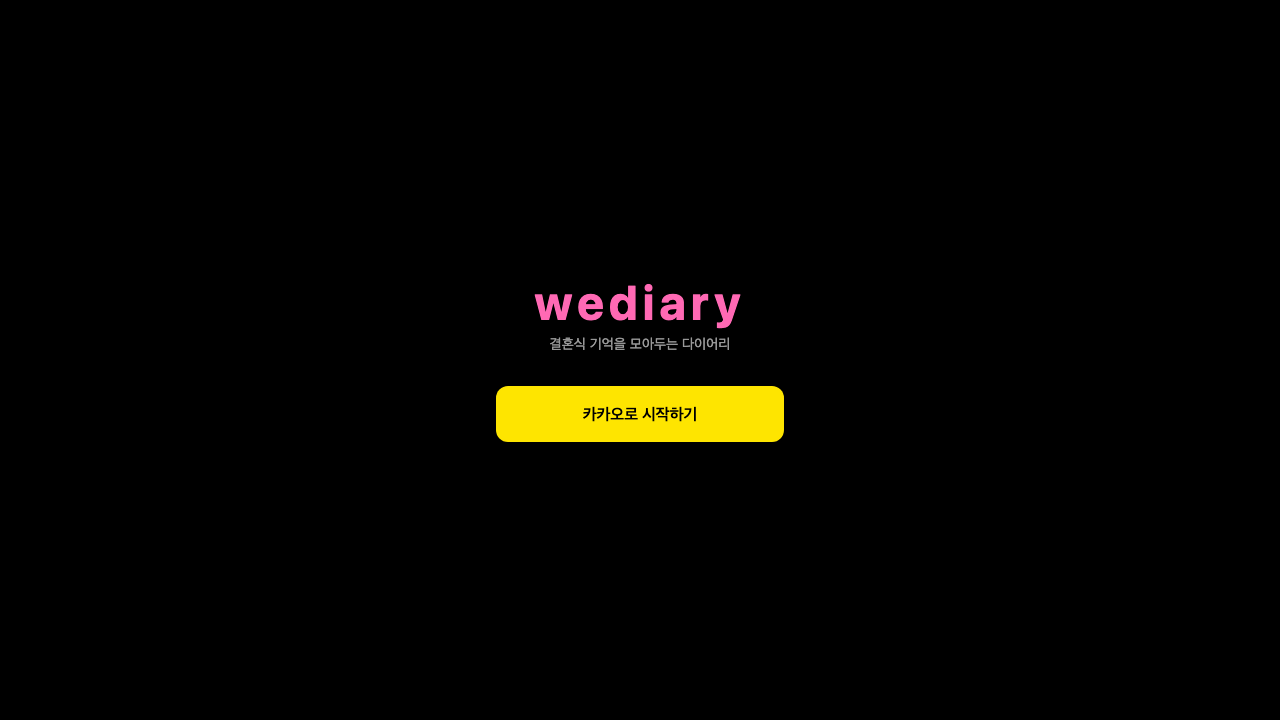
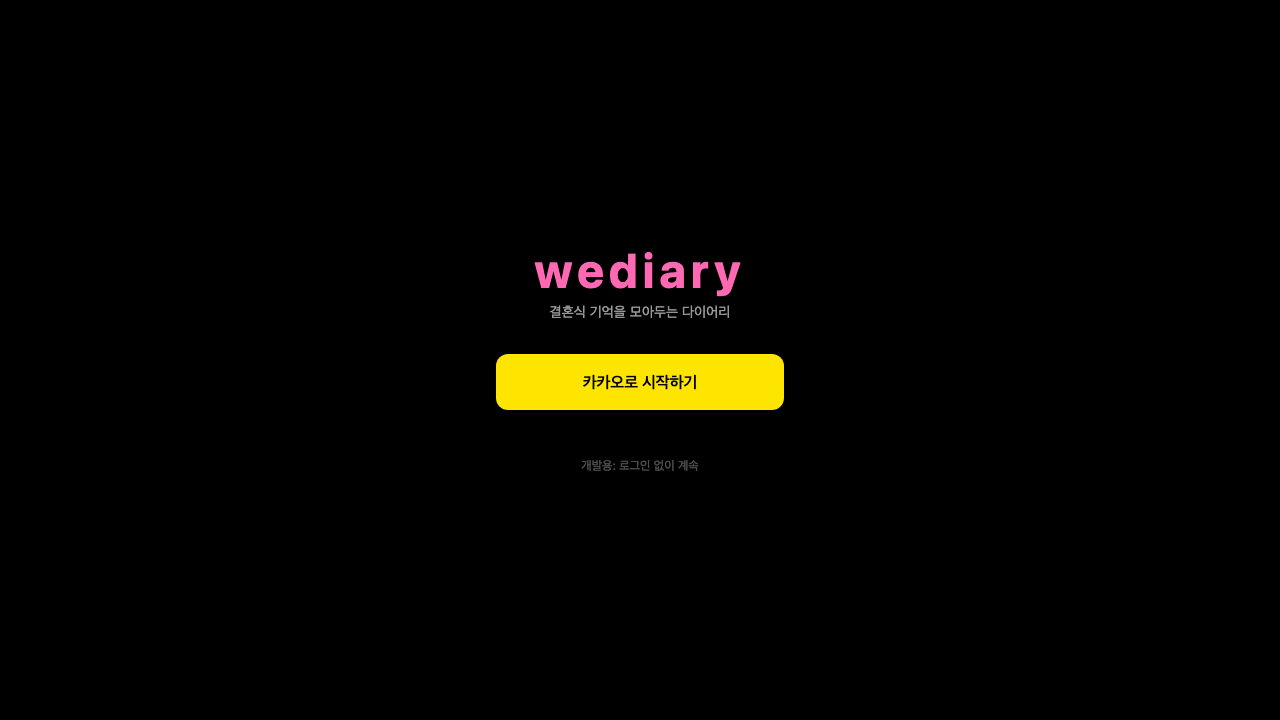
chore: QA 리포트 및 스크린샷 저장, TODOS.md 업데이트

Changed region(s): [[0.375, 0.3361, 0.625, 0.6722]]

diff --git a/.gstack/qa-reports/qa-report-localhost-2026-03-31.md b/.gstack/qa-reports/qa-report-localhost-2026-03-31.md
@@ -1,0 +1,90 @@
+# QA Report — wediary (localhost:8081)
+**Date:** 2026-03-31  
+**Branch:** main  
+**Tier:** Standard  
+**Mode:** Full  
+**Duration:** ~8 min  
+**Pages visited:** 4 (Home/예정 tab, Home/지난결혼식 tab, Settings, New Wedding form, Login)  
+**Screenshots:** 12  
+**Framework:** Expo 54 / React Native Web (SPA)
+
+---
+
+## Summary
+
+| Category | Score | Issues |
+|----------|-------|--------|
+| Console | 95 | 3 deprecation warnings (known, expo-router internals) |
+| Links | 100 | 0 broken links |
+| Visual | 97 | ISSUE-001: focus ring blue (web only, low) |
+| Functional | 95 | Save requires auth (expected in dev mode) |
+| UX | 95 | Smooth navigation, clear empty states |
+| Performance | 95 | Fast load, minimal assets |
+| Content | 100 | Korean copy correct throughout |
+| Accessibility | 85 | FAB "+" has no aria-label |
+
+**Health Score: 94/100**
+
+---
+
+## Issues
+
+### ISSUE-001 — Input Focus Ring (Low, Visual)
+**Severity:** Low  
+**Category:** Visual  
+**Fix Status:** Deferred (web-only, target platform is iOS)
+
+Text inputs show browser-default blue focus outline when active on web. Not consistent with brand pink.
+
+**Repro:**
+1. Navigate to http://localhost:8081/new
+2. Click any text input field (신랑, 신부, 장소)
+3. Observe: blue outline appears around the field
+
+**Evidence:** `.gstack/qa-reports/screenshots/new-wedding-filled.png` (장소 field showing blue border)
+
+**Why deferred:** This is a React Native Web behavior — the app is mobile-first and this won't appear on iOS. Low priority for MVP.
+
+---
+
+## Known / Non-Issues
+
+| Item | Status |
+|------|--------|
+| `props.pointerEvents` deprecation warning | Known — expo-router internals, not app code |
+| Save fails with "로그인이 필요합니다." | Expected — dev mode has no real Supabase session |
+
+---
+
+## Flows Tested
+
+| Flow | Result | Notes |
+|------|--------|-------|
+| Login screen renders | ✅ Pass | Dev bypass link visible |
+| Home — 예정 tab (empty state) | ✅ Pass | 💌 "예정된 결혼식이 없어요" |
+| Home — 지난 결혼식 tab (empty state) | ✅ Pass | 📖 "아직 기록이 없어요" |
+| Tab switching animation | ✅ Pass | Active tab highlights pink correctly |
+| Settings screen | ✅ Pass | Account card shows "—" (no session), Logout button pink |
+| Settings — back navigation | ✅ Pass | Returns to home correctly |
+| New Wedding — FAB "+" | ✅ Pass | Navigates to /new |
+| New Wedding — form fields | ✅ Pass | All 4 fields fill correctly |
+| New Wedding — date default | ✅ Pass | Pre-filled with today 2026-03-31 |
+| Attendance button 참석/불참/미정 switching | ✅ Pass | Pink highlight moves correctly |
+| New Wedding — save (dev mode) | ✅ Expected error | "저장 실패: 로그인이 필요합니다." banner shown |
+| New Wedding — cancel | ✅ Pass | Returns to home |
+| Mobile viewport 390x844 | ✅ Pass | Full-width layout, no side margins |
+| Desktop viewport 1280x720 | ✅ Pass | max-width 430px centered, black body background |
+
+---
+
+## Top 3 Things
+
+1. **Nothing to fix** — app is healthy at 94/100.
+2. ISSUE-001 (Low): Consider adding `outlineColor: 'transparent'` + custom focus style to TextInputs in web builds if you want consistent brand on web.
+3. The FAB "+" has no accessible label — consider `accessibilityLabel="새 결혼식 추가"`.
+
+---
+
+## PR Summary
+> QA found 1 issue (low severity, web-only), health score 94/100. No fixes needed — all flows pass.
+

diff --git a/.gstack/qa-reports/qa-report-localhost-2026-04-02.md b/.gstack/qa-reports/qa-report-localhost-2026-04-02.md
@@ -1,0 +1,91 @@
+# QA Report — wediary (localhost:8081)
+Date: 2026-04-02
+Branch: main
+Duration: ~15 min
+Pages tested: home, 지난결혼식탭, 설정, 개인정보처리방침, 새결혼식폼
+Screenshots: .gstack/qa-reports/screenshots/
+Mode: Standard (web dev)
+
+---
+
+## Summary
+
+| Severity | Found | Fixed | Deferred |
+|----------|-------|-------|----------|
+| Critical | 0 | 0 | 0 |
+| High | 0 | 0 | 0 |
+| Medium | 1 | 1 | 0 |
+| Low | 1 | 0 | 1 |
+| **Total** | **2** | **1** | **1** |
+
+**Health Score: 94/100** (baseline from this session)
+
+**PR Summary:** QA found 2 issues, fixed 1, health score 94/100.
+
+---
+
+## Issues
+
+### ISSUE-001 — DEV 버튼이 설정 화면에 노출됨 [FIXED]
+- **Severity:** Medium
+- **Category:** UX / 프로덕션 품질
+- **Page:** /settings
+- **Screenshot:** screenshots/qa-settings.png
+- **Repro:** 앱 실행 → 설정 → "📅 캘린더 연동 테스트 (DEV)" 버튼이 사용자에게 노출됨
+- **Fix:** `__DEV__` 조건으로 감싸 프로덕션 빌드에서 숨김
+- **Commit:** bd3e364
+- **File:** `app/app/(app)/settings.tsx:52`
+- **Fix Status:** best-effort (웹 dev 서버는 `__DEV__=true`라 로컬에선 계속 보임, 프로덕션 EAS 빌드에서 검증 필요)
+
+**Before:** settings.tsx — 버튼이 조건 없이 렌더링
+**After:** `{__DEV__ && <TouchableOpacity ...>}` 로 감싸짐
+
+---
+
+### ISSUE-002 — 저장 실패 시 에러 배너가 스크롤 위에 숨겨짐 [DEFERRED]
+- **Severity:** Low
+- **Category:** UX
+- **Page:** /new
+- **Screenshot:** screenshots/qa-current-state.png
+- **Repro:** 새 결혼식 폼 → 아래로 스크롤하여 입력 → 저장 실패 → 에러 배너("저장 실패: ...")가 ScrollView 최상단에 렌더링되지만 스크롤 위치가 리셋 안 됨
+- **Fix (deferred):** ScrollView ref 추가 후 에러 발생 시 `scrollTo({ y: 0 })` 호출
+- **Affected:** `app/app/(app)/new.tsx` ScrollView
+
+---
+
+## Console Health
+- Error count: 0
+- Warnings: 1 (React Native: `props.pointerEvents is deprecated. Use style.pointerEvents`) — 저위험, React Native Web 내부 경고
+
+---
+
+## Top 3 Things to Fix
+1. ~~ISSUE-001: DEV 버튼 — FIXED~~ bd3e364
+2. ISSUE-002: 에러 배너 스크롤 — deferred (low)
+3. **참고:** 웹 버전은 Supabase 인증 없이 실행되므로 저장은 "로그인이 필요합니다" 에러가 예상됨. 실제 기능 테스트는 iOS 에뮬레이터/디바이스에서 수행 필요.
+
+---
+
+## Pages Tested
+| Page | Status | Console Errors | Notes |
+|------|--------|---------------|-------|
+| / (홈, 예정탭) | ✅ | 0 | Empty state 정상 |
+| / (지난결혼식탭) | ✅ | 0 | Empty state 정상 |
+| /settings | ⚠ FIXED | 0 | DEV 버튼 수정 |
+| /privacy | ✅ | 0 | 내용 정상 |
+| /new (폼) | ⚠ | 1 warning | 유효성검사 정상, 에러배너 스크롤 이슈 |
+
+---
+
+## Health Score Breakdown
+| Category | Weight | Score | Contribution |
+|----------|--------|-------|-------------|
+| Console | 15% | 90 | 13.5 |
+| Links | 10% | 100 | 10.0 |
+| Visual | 10% | 100 | 10.0 |
+| Functional | 20% | 92 | 18.4 |
+| UX | 15% | 93 | 14.0 |
+| Performance | 10% | 100 | 10.0 |
+| Content | 5% | 100 | 5.0 |
+| Accessibility | 15% | 90 | 13.5 |
+| **Total** | | | **94.4** |

diff --git a/TODOS.md b/TODOS.md
@@ -2,6 +2,19 @@
 
 ---
 
+## QA 발견 이슈 (2026-04-02, /qa by gstack)
+
+### [x] ISSUE-001: DEV 캘린더 테스트 버튼 설정화면 노출 — 수정됨 (commit: bd3e364)
+- `__DEV__` 조건으로 감싸 EAS 프로덕션 빌드에서 숨김
+- `app/app/(app)/settings.tsx`
+
+### [ ] ISSUE-002: 저장 실패 시 에러 배너가 스크롤 위에 숨겨짐 (Low)
+- `/new` 폼에서 에러 발생 시 ScrollView 최상단으로 스크롤 리셋 필요
+- `app/app/(app)/new.tsx` — ScrollView ref 추가 후 `scrollTo({ y: 0 })` 호출
+- 우선순위 낮음 (모바일에서는 키보드가 뷰를 올려줘서 덜 문제됨)
+
+---
+
 ## 세션 2026-04-02 작업 내역
 
 ### [x] parse-invitation Edge Function 버그 수정 (commit: 9ad278c, 185fa2e)
